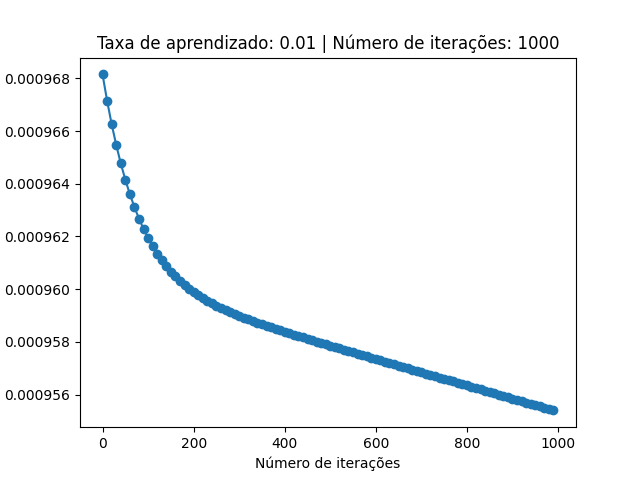
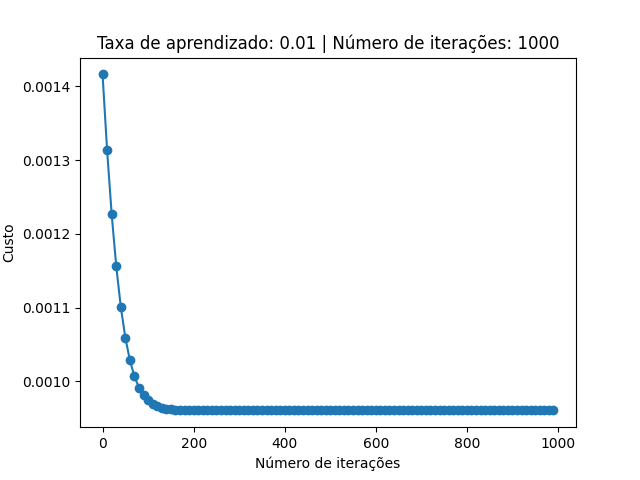
fix: mean

diff --git a/treinamento_2nn.py b/treinamento_2nn.py
@@ -10,17 +10,6 @@ import scipy
 
 
 def inicializa_com_randoms(dim, nr_neuronios):  # nr_neuronios da camada atual
-    """
-    Cria uma matriz w de dimensoes [dim][1], ou seja, um vetor em coluna, e o inicializa com zero. Inicializa b = 0.
-
-    Parametros:
-    dim -- o tamanho do vetor de coluna w (igual a quantidade de caracteristicas de x^(i))
-
-    Retorno:
-    w -- vetor coluna inicializado com dimensoes (dim, 1)
-    b -- escalar inicializado com valor 0 (vies)
-    """
-
     # cria um vetor de determinada dimensao e seta suas posicoes valendo 0
     w = np.random.rand(dim, nr_neuronios)
     b = np.random.rand(nr_neuronios, 1)
@@ -135,11 +124,11 @@ def treina2nn(X, Y, m, alfa, num_iteracoes, nr_neuronios=3, tp_ativacao='ReLU'):
         dB1 = dZ1
         #     db[1] += dz[1] ## Agrega todas as instancias (camada oculta)
 
-        J /= m
-        dW1 /= m
-        dB1 /= m
-        dW2 /= m
-        dB2 /= m  # Tirar as médias
+        J = np.sum(J) / m
+        dW1 = np.sum(dW1) / m
+        dB1 = np.sum(dB1) / m
+        dW2 = np.sum(dW2) / m
+        dB2 = np.sum(dB2) / m  # Tirar as médias
         #   J /= m; dW[1]/= m; db[1]/= m; dW[2]/= m; db[2]/= m ; ## Tirar as médias
 
         # Atualização de custos [W2 - Vetor original; dW2 - Matriz gradiente; alfa - Taxa de aprendizado]
@@ -157,7 +146,7 @@ def treina2nn(X, Y, m, alfa, num_iteracoes, nr_neuronios=3, tp_ativacao='ReLU'):
     # custos = J
     # return parametros, custos
         if i % 10 == 0:
-            custos.append(np.sum(J[0])/m)
+            custos.append(np.sum(J)/m)
 
     return W2, b2, W1, b1, custos
 # Saída: W[1], W[2], b[1] e b[2] treinados

diff --git a/main.py b/main.py
@@ -66,13 +66,13 @@ def raioGraficalizador2(dados, intervalo, numeroIteracoes, taxaAprendizado):
 
 vetor1 = [1000]
 vetor2 = [0.01, 0.001]
-vetor3 = ['ReLU', 'tanh']
+vetor3 = ['tanh', 'ReLU']
 
-for i in vetor1:
-    for j in vetor2:
-        data = constroi_modelo(X_treino, Y_treino, X_teste,
-                               Y_teste, i, j, print_custo=False)
-        raioGraficalizador(data['custos'], 10, i, j)
+# for i in vetor1:
+#     for j in vetor2:
+#         data = constroi_modelo(X_treino, Y_treino, X_teste,
+#                                Y_teste, i, j, print_custo=False)
+#         raioGraficalizador(data['custos'], 10, i, j)
 
 for i in vetor1:
     for j in vetor2:
